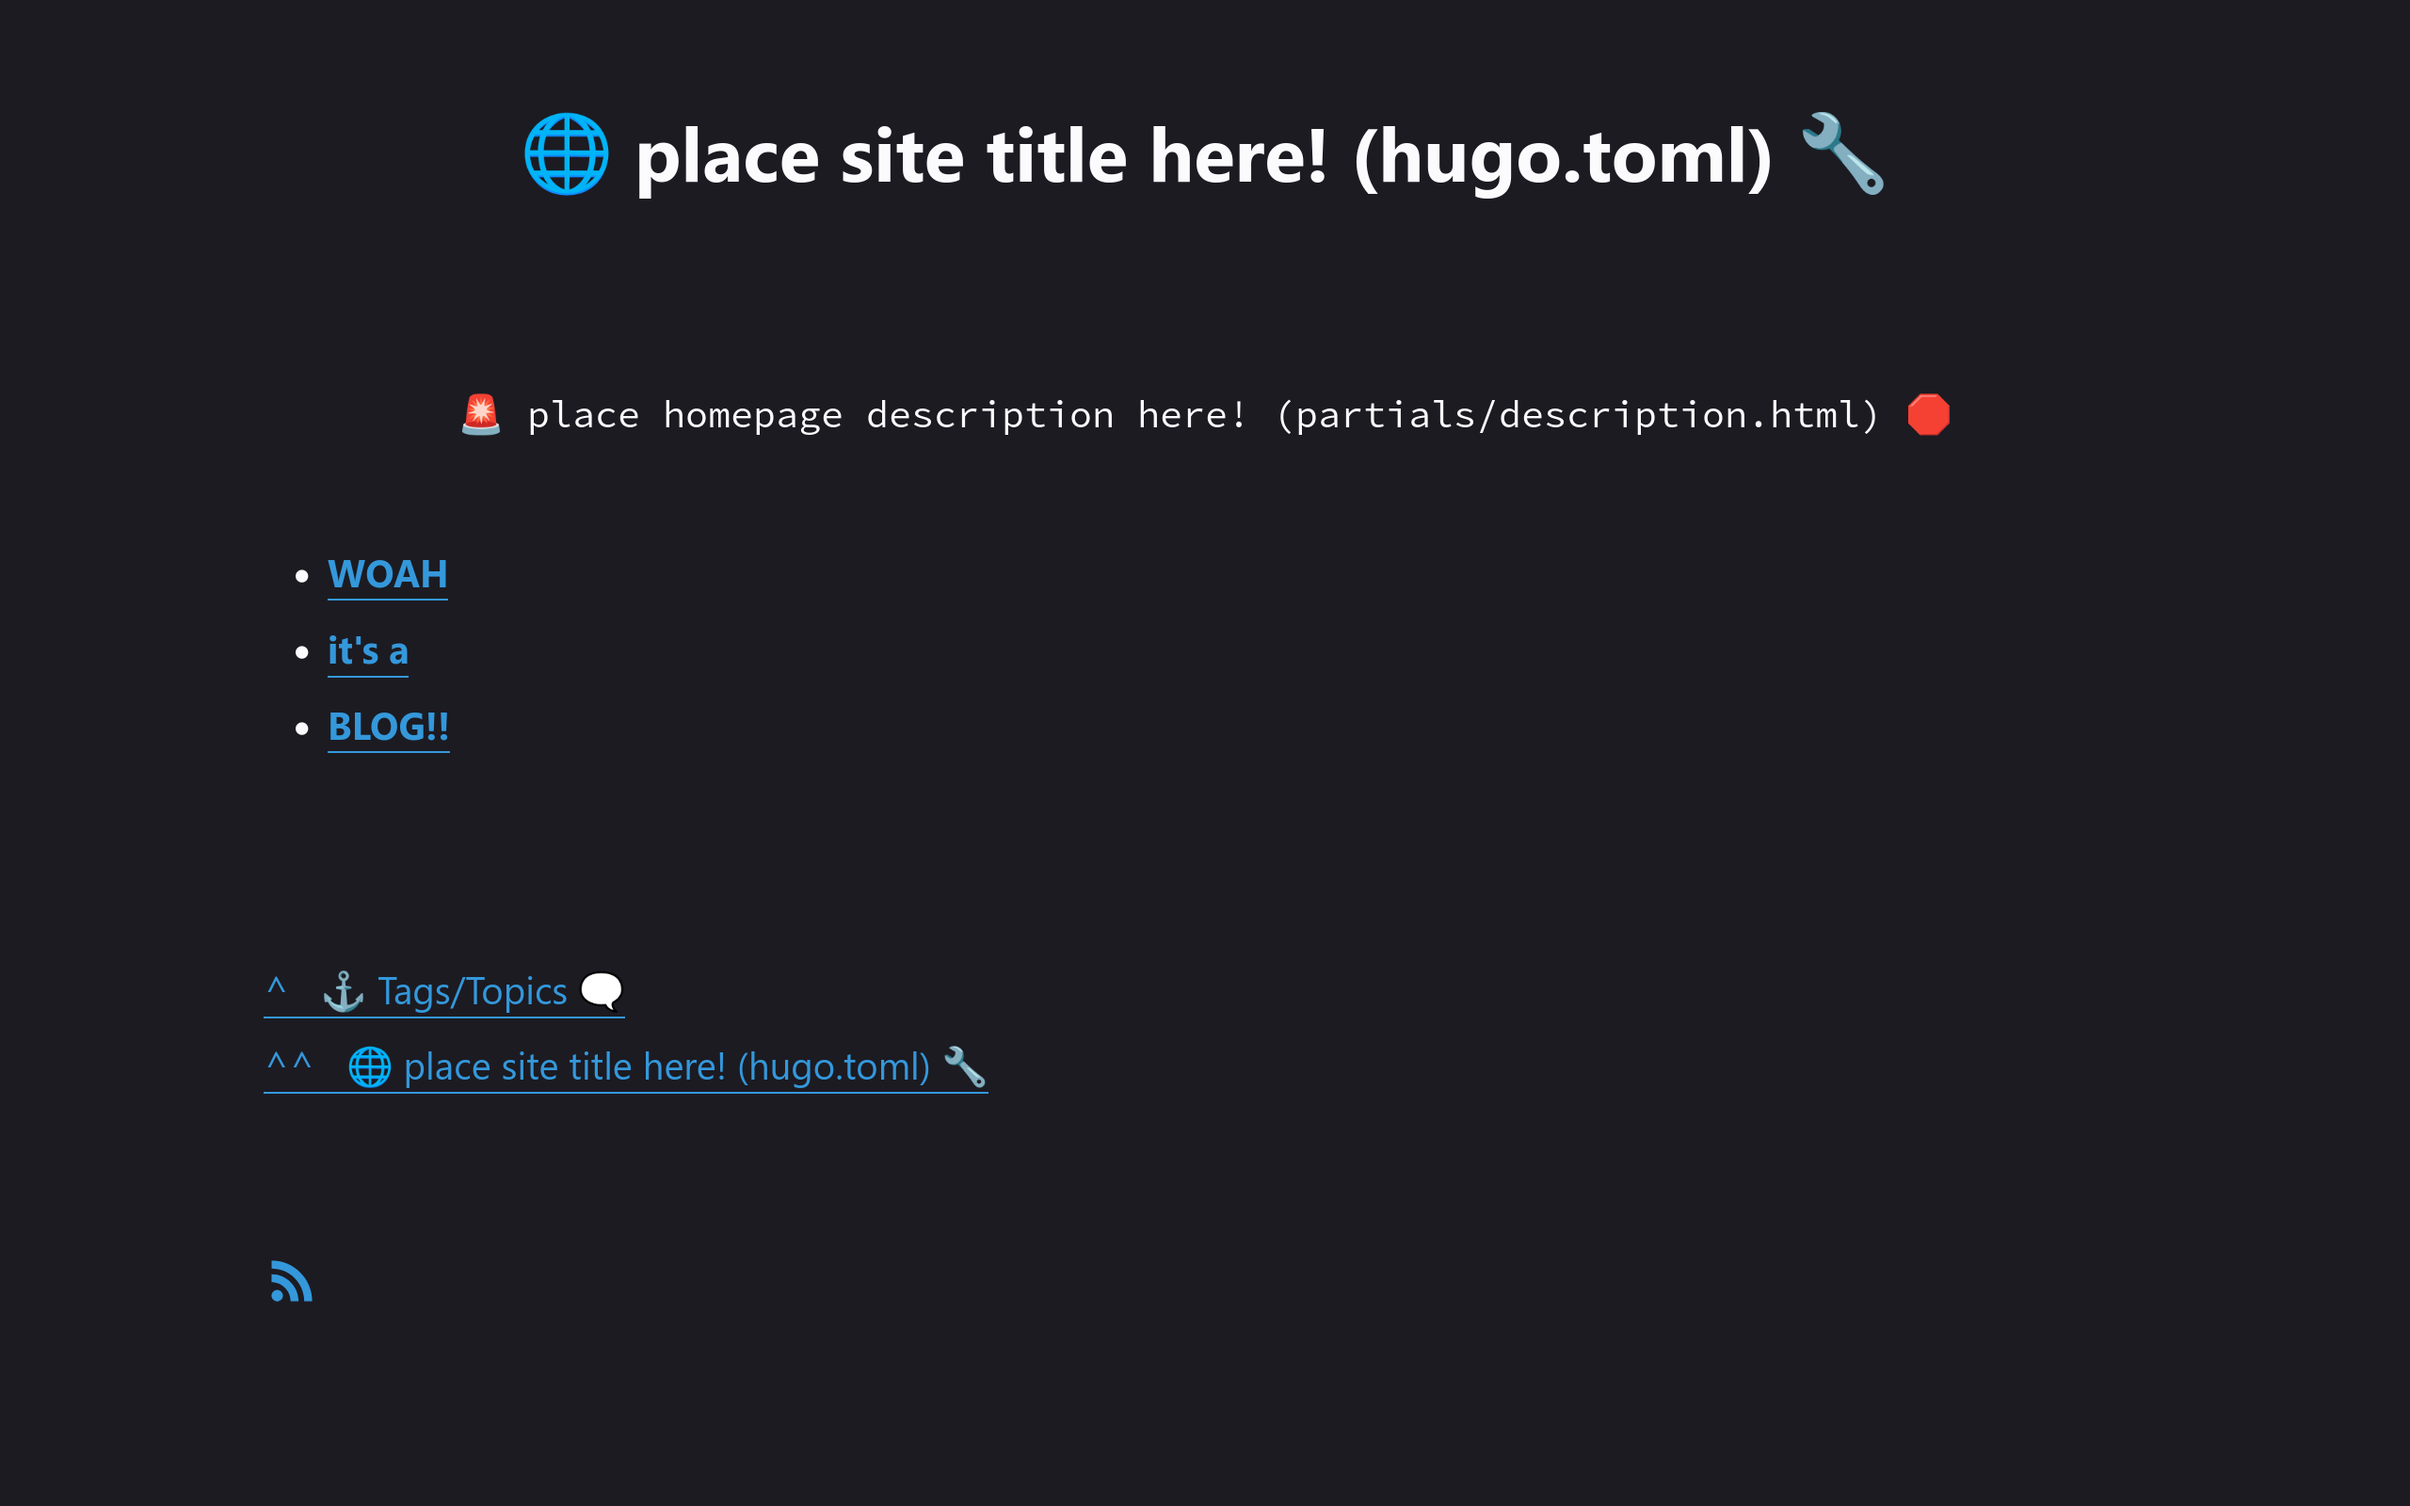
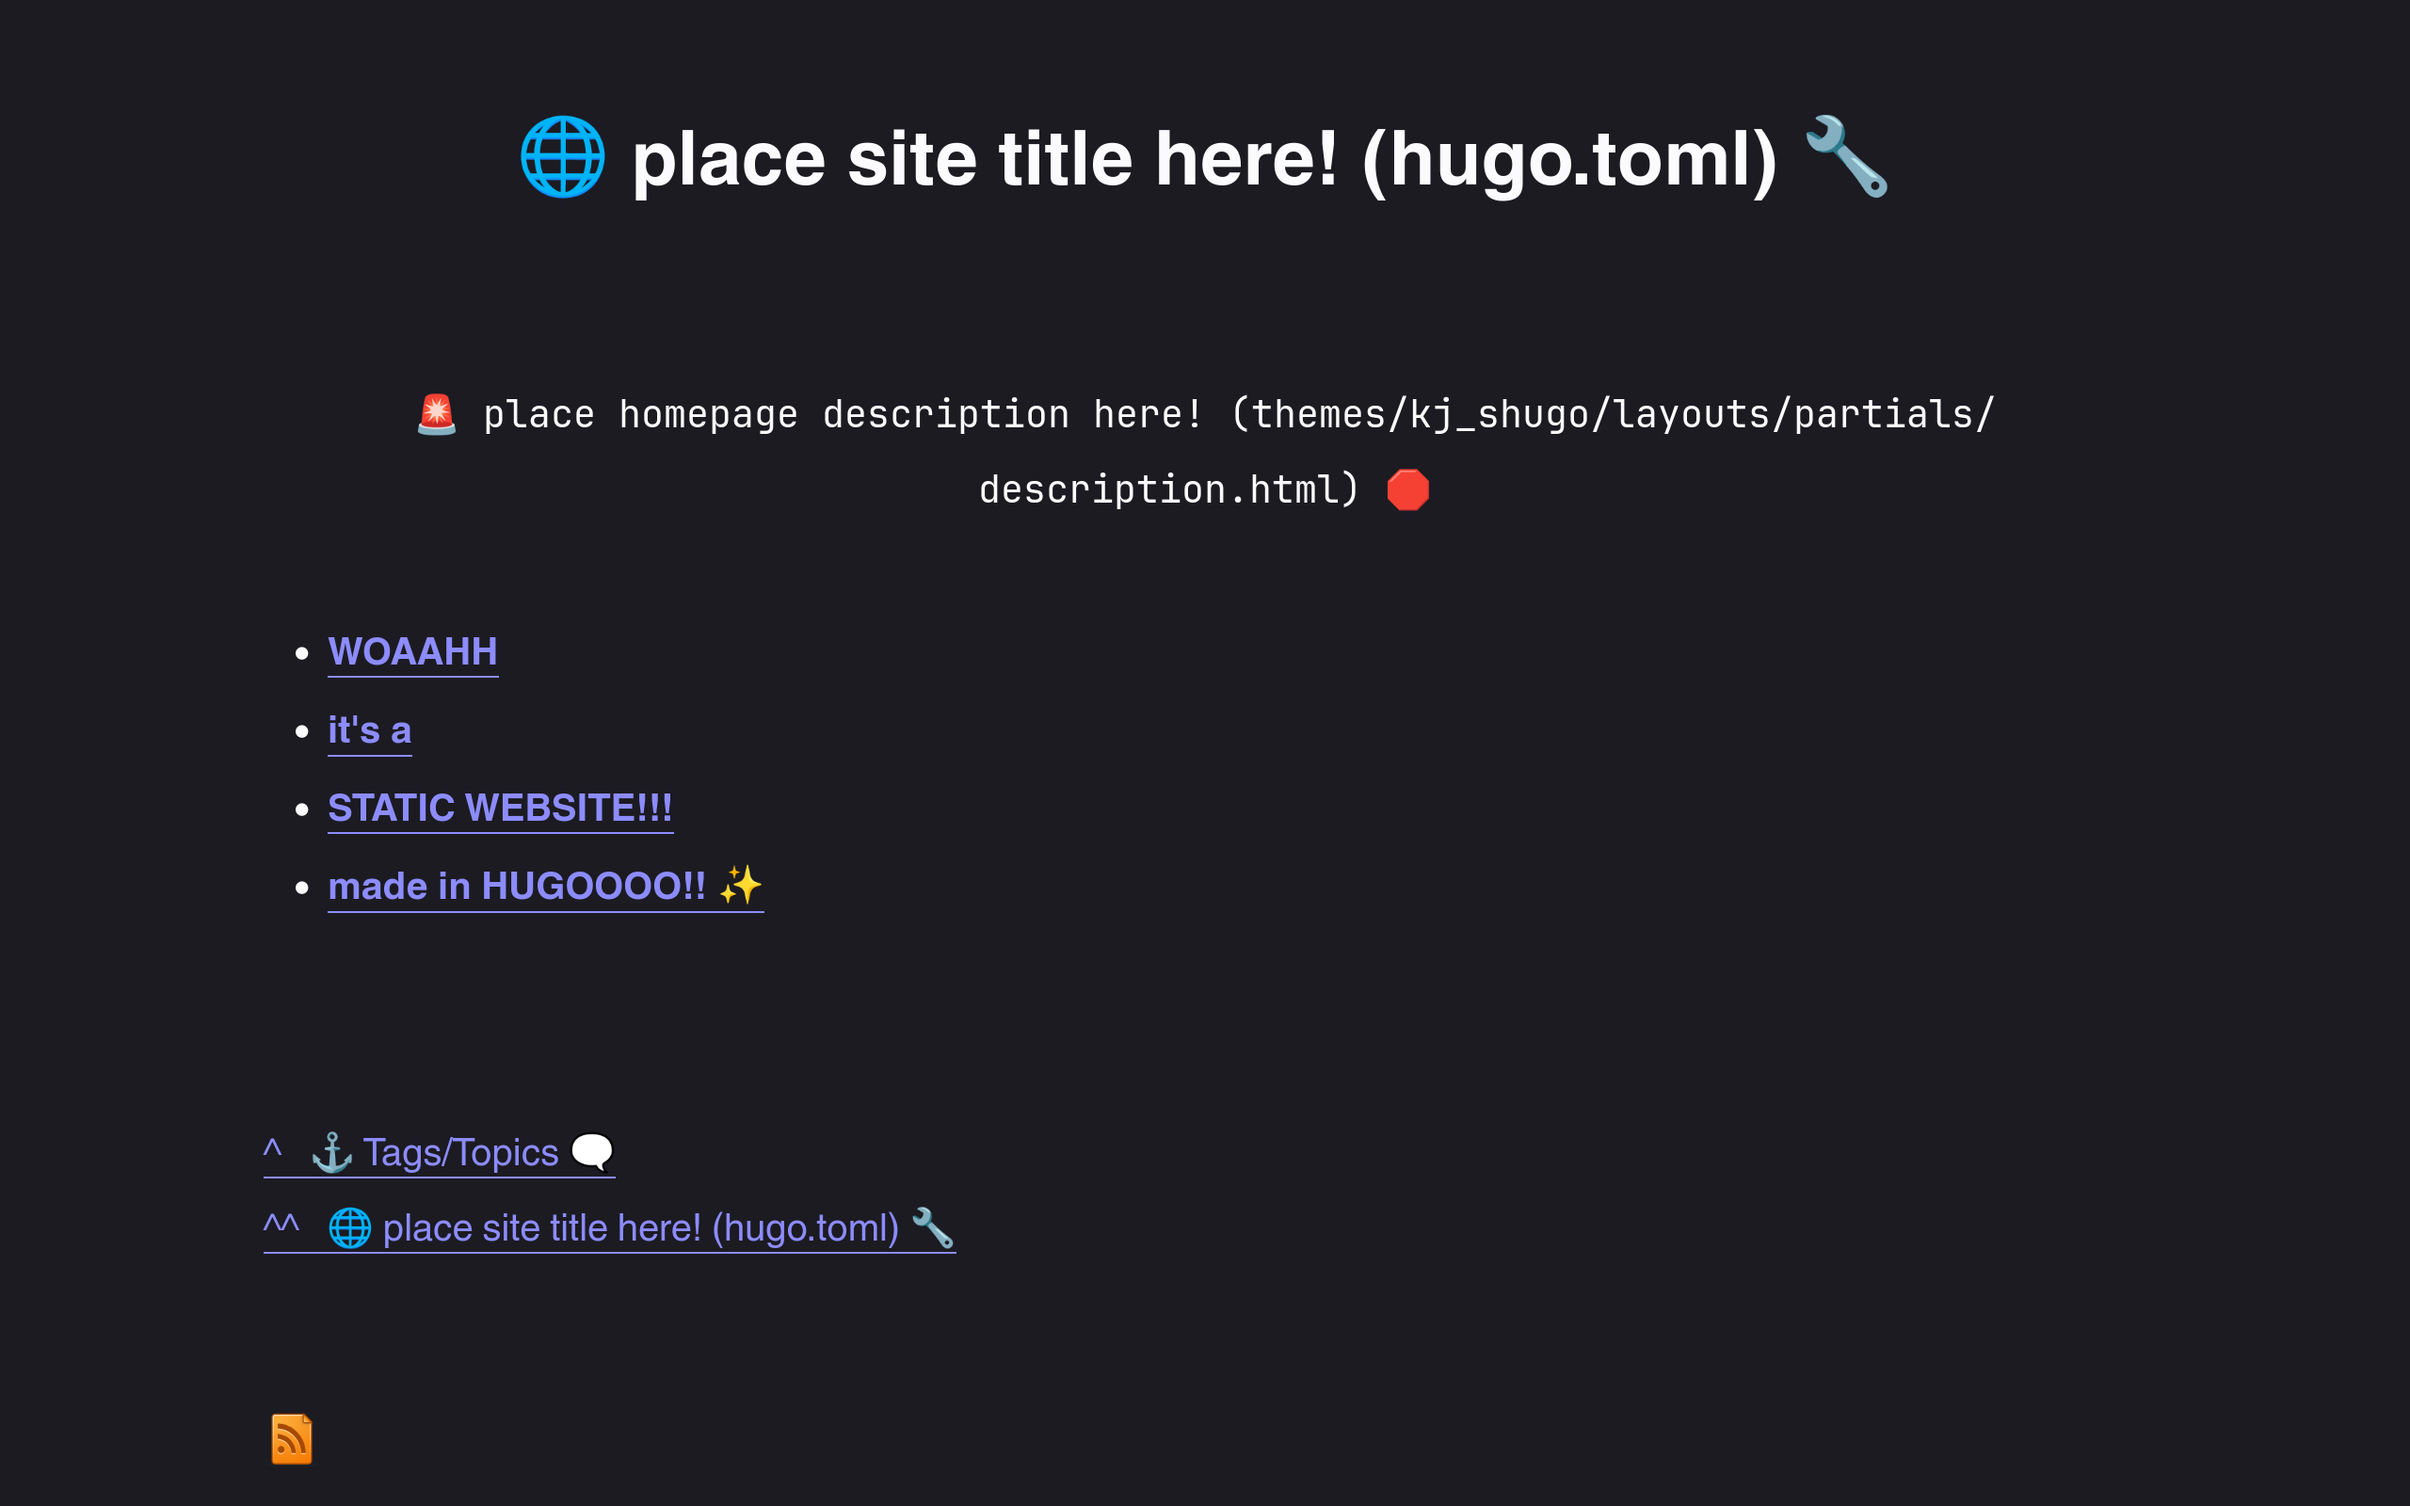
refactor: use even less CSS

diff --git a/static/style.css b/static/style.css
@@ -1,1 +1,1 @@
-hr, p, pre, table {margin: 1em 0 }p.centered {text-align: center;}p.mono {font-family: monospace;padding-bottom: 24px;}tbody, th, td, tr {border: 1px solid #6D6D6D }html {line-height: 2;font-family: sans-serif;font-size: 20px }body {margin: 0 auto;max-width: 50em;padding: 40px;overflow-wrap: break-word;text-rendering: optimizeLegibility;font-kerning: normal }.top-nav-controls {text-align: center;}@media(max-width:600px) {body {font-size: .9em;padding: 1em }h1 {font-size: 1.8em }html {font-size: 18px }}@media print {body {background-color: transparent;color: #000;font-size: 12pt }h2, h3, p {orphans: 3;widows: 3 }h2, h3, h4 {page-break-after: avoid }}img {max-width: 100% }h1 {margin-top: 0.0em;margin-bottom: 0.0em;}h2, h3, h4, h5, h6 {margin-top: 1.4em }h5, h6 {font-size: 1em;font-style: italic }h6 {font-weight: 400 }ol, ul {padding-left: 1.7em;margin-top: 1em }li>ol, li>ul {margin-top: 0 }blockquote {margin: 1em 0 1em 1.7em;padding-left: 1em;border-left: 2px solid #e6e6e6;color: #606060 }code {font-family: monospace;font-size: 85%;margin: 0;white-space: pre-wrap }pre {overflow: auto }pre code {padding: 0;overflow: visible;overflow-wrap: normal }.sourceCode {background-color: transparent;overflow: visible }hr {background-color: #1a1a1a;border: 0;height: 1px }table {border-collapse: collapse;width: 100%;overflow-x: auto;display: block;font-variant-numeric: lining-nums tabular-nums }a, a:active, a:hover, a:link, a:visited {color: #3498db;text-underline-offset: 6px;}table caption {margin-bottom: .75em }tbody {margin-top: .5em;border-bottom: 1px solid #1a1a1a }th {padding: .25em .5em }td {padding: .125em .5em .25em }header {margin-bottom: 4em;text-align: center }#TOC li, ul.task-list {list-style: none }#TOC ul {padding-left: 1.3em }#TOC>ul {padding-left: 0 }#TOC a:not(:hover) {text-decoration: none }span.smallcaps {font-variant: small-caps }div.columns {display: flex;gap: min(4vw, 1.5em) }div.column {flex: auto;overflow-x: auto }div.hanging-indent {margin-left: 1.5em;text-indent: -1.5em }ul.task-list li input[type=checkbox] {width: .8em;margin: 0 .8em .2em -1.6em;vertical-align: middle }.display.math {display: block;text-align: center;margin: .5rem auto }
+hr, p, pre, table {margin: 1em 0 }p.centered {text-align: center;}p.mono {font-family: monospace;padding-bottom: 24px;}tbody, th, td, tr {border: 1px solid #6D6D6D }html {line-height: 2;font-family: sans-serif;font-size: 20px }body {margin: 0 auto;max-width: 50em;padding: 40px;overflow-wrap: break-word;text-rendering: optimizeLegibility;font-kerning: normal }.top-nav-controls {text-align: center;}@media(max-width:600px) {body {font-size: .9em;padding: 1em }h1 {font-size: 1.8em }html {font-size: 18px }}@media print {body {background-color: transparent;color: #000;font-size: 12pt }h2, h3, p {orphans: 3;widows: 3 }h2, h3, h4 {page-break-after: avoid }}img {max-width: 100% }h1 {margin-top: 0.0em;margin-bottom: 0.0em;}h2, h3, h4, h5, h6 {margin-top: 1.4em }h5, h6 {font-size: 1em;font-style: italic }h6 {font-weight: 400 }ol, ul {padding-left: 1.7em;margin-top: 1em }li>ol, li>ul {margin-top: 0 }blockquote {margin: 1em 0 1em 1.7em;padding-left: 1em;border-left: 2px solid #e6e6e6;color: #606060 }code {font-family: monospace;font-size: 85%;margin: 0;white-space: pre-wrap }pre {overflow: auto }pre code {padding: 0;overflow: visible;overflow-wrap: normal }.sourceCode {background-color: transparent;overflow: visible }hr {background-color: #1a1a1a;border: 0;height: 1px }table {border-collapse: collapse;width: 100%;overflow-x: auto;display: block;font-variant-numeric: lining-nums tabular-nums }a, a:active, a:hover, a:link, a:visited {color: LinkText;text-underline-offset: 6px;}table caption {margin-bottom: .75em }tbody {margin-top: .5em;border-bottom: 1px solid #1a1a1a }th {padding: .25em .5em }td {padding: .125em .5em .25em }header {margin-bottom: 4em;text-align: center }#TOC li, ul.task-list {list-style: none }#TOC ul {padding-left: 1.3em }#TOC>ul {padding-left: 0 }#TOC a:not(:hover) {text-decoration: none }span.smallcaps {font-variant: small-caps }div.columns {display: flex;gap: min(4vw, 1.5em) }div.column {flex: auto;overflow-x: auto }div.hanging-indent {margin-left: 1.5em;text-indent: -1.5em }ul.task-list li input[type=checkbox] {width: .8em;margin: 0 .8em .2em -1.6em;vertical-align: middle }.display.math {display: block;text-align: center;margin: .5rem auto }

diff --git a/README.md b/README.md
@@ -2,39 +2,28 @@
 
 # kj_sh604's Hugo Theme (kj_shugo)
 
-a VERY minimal Hugo theme that I use on my [blog](https://aedrielkylejavier.me/articles/) and [scripts/tools](https://aedrielkylejavier.me/scripts-and-tools/) sites.
-
-## features:
-* ![rss logo](assets/rss.webp) generates an rss feed with a `Makefile` (`public/rss.xml`)
-* dead simple stylesheet (`static/style.css`)
-* responsive web design for mobile and desktop (see screenshots)
-* dynamic navigation with `topnav` and `nextprev` (good for blogs)
-* decent amount of code and configuration comments to make it as self-documenting as possible.
-* dark mode and light mode (based on site visitors' system settings)
-    * this is not done with CSS; rather, it is achieved with a simple `<meta>` tag:
-        * `<meta name="color-scheme" content="dark light">`
+a VERY minimal, "no style" Hugo theme that I use on my [blog](https://aedrielkylejavier.me/articles/) and [scripts/tools](https://aedrielkylejavier.me/scripts-and-tools/) sites.
 
 ## screenshots
 
-**deskop site**
+**on desktop 🖥**
 
 ![scrot on desktop](assets/desktop-scrot.png)
 
-***with example content*** *([aedrielkylejavier.me/scripts-and-tools](https://aedrielkylejavier.me/scripts-and-tools/))*
-
-![scrot with content](assets/example_content-scrot.png)
-
-***example blog site*** *with* `datesinlist = true` *in* `hugo.toml` *([aedrielkylejavier.me/articles/](https://aedrielkylejavier.me/articles/))*
-
-![scrot of example blogsite](assets/blogsite-scrot.png)
-
-***example blog post*** *([aedrielkylejavier.me/articles/2023-01-06_blog-redesign](https://aedrielkylejavier.me/articles/2023-01-06_blog-redesign/))*
-
-![scrot of example blogpost](assets/blog-example-scrot.png)
-
-**mobile site (responsive)**
+**on mobile 📱**
 
 ![scrot on mobile](assets/mobile-scrot.png)
+
+## features:
+* ![rss logo](assets/rss.webp) generates an rss feed with a `Makefile` (`public/rss.xml`).
+* dynamic navigation with `topnav` and `nextprev` (good for blogs).
+* decent amount of code and configuration comments to make it as self-documenting as possible.
+* "no style" stylesheet (`static/style.css`).
+    * utilizes default HTML colors and styles wherever reasonable.
+    * it exists just to provide responsive web design for mobile and desktop (see screenshots).
+* dark mode and light mode (based on site visitors' system settings).
+    * this is not done with CSS; rather, it is achieved with a simple `<meta>` tag:
+        * `<meta name="color-scheme" content="dark light">`
 
 ## usage
 
@@ -72,6 +61,33 @@ make
 ```bash
 hugo new content [TITLE OF WEBPAGE].md
 ```
+
+## more screenshots
+
+### example content
+
+***my scripts & tools site*** *([aedrielkylejavier.me/scripts-and-tools](https://aedrielkylejavier.me/scripts-and-tools/))*
+
+![scrot with content](assets/example_content-scrot.png)
+
+***my blogsite*** *with* `datesinlist = true` *in* `hugo.toml` *([aedrielkylejavier.me/articles/](https://aedrielkylejavier.me/articles/))*
+
+![scrot of example blogsite](assets/blogsite-scrot.png)
+
+***a blogpost*** *([aedrielkylejavier.me/articles/2023-01-06_blog-redesign](https://aedrielkylejavier.me/articles/2023-01-06_blog-redesign/))*
+
+![scrot of example blogpost](assets/blog-example-scrot.png)
+
+### light mode
+
+**on desktop 🖥**
+
+![scrot on desktop, light mode](assets/desktop-scrot-light.png)
+
+**on mobile 📱**
+
+![scrot on mobile, light mode](assets/mobile-scrot-light.png)
+
 
 ## additional links and info
 
